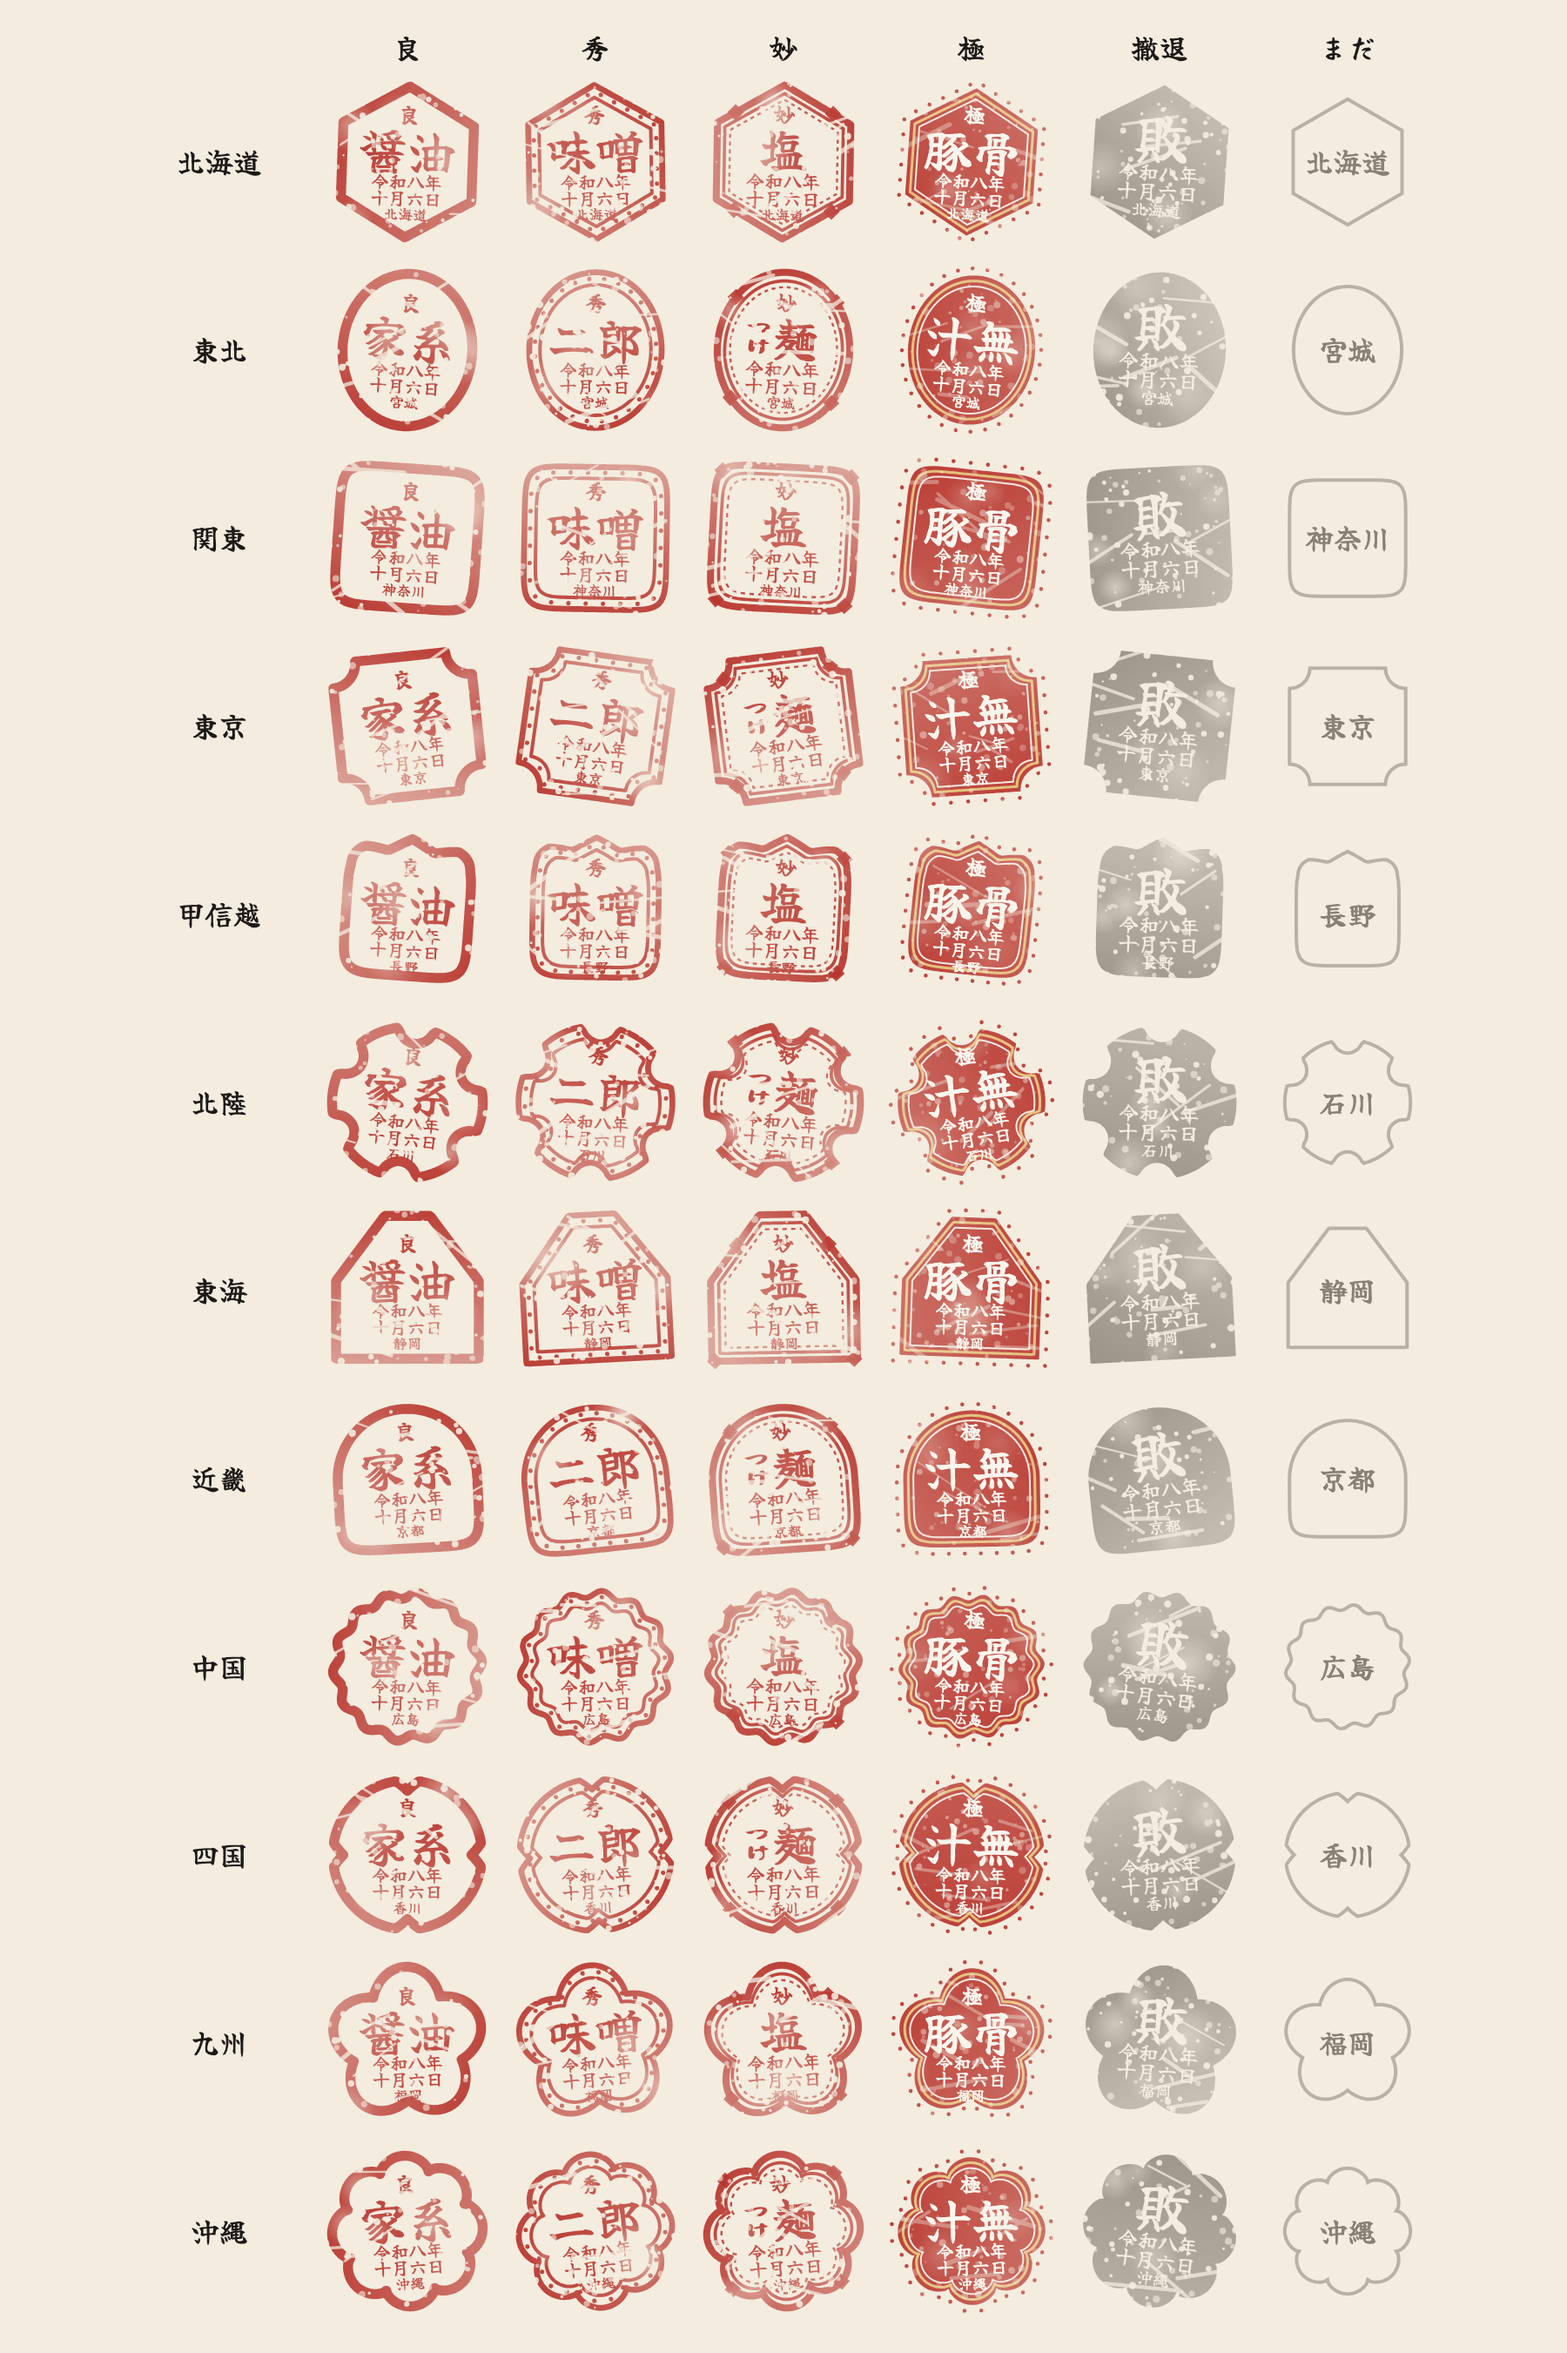
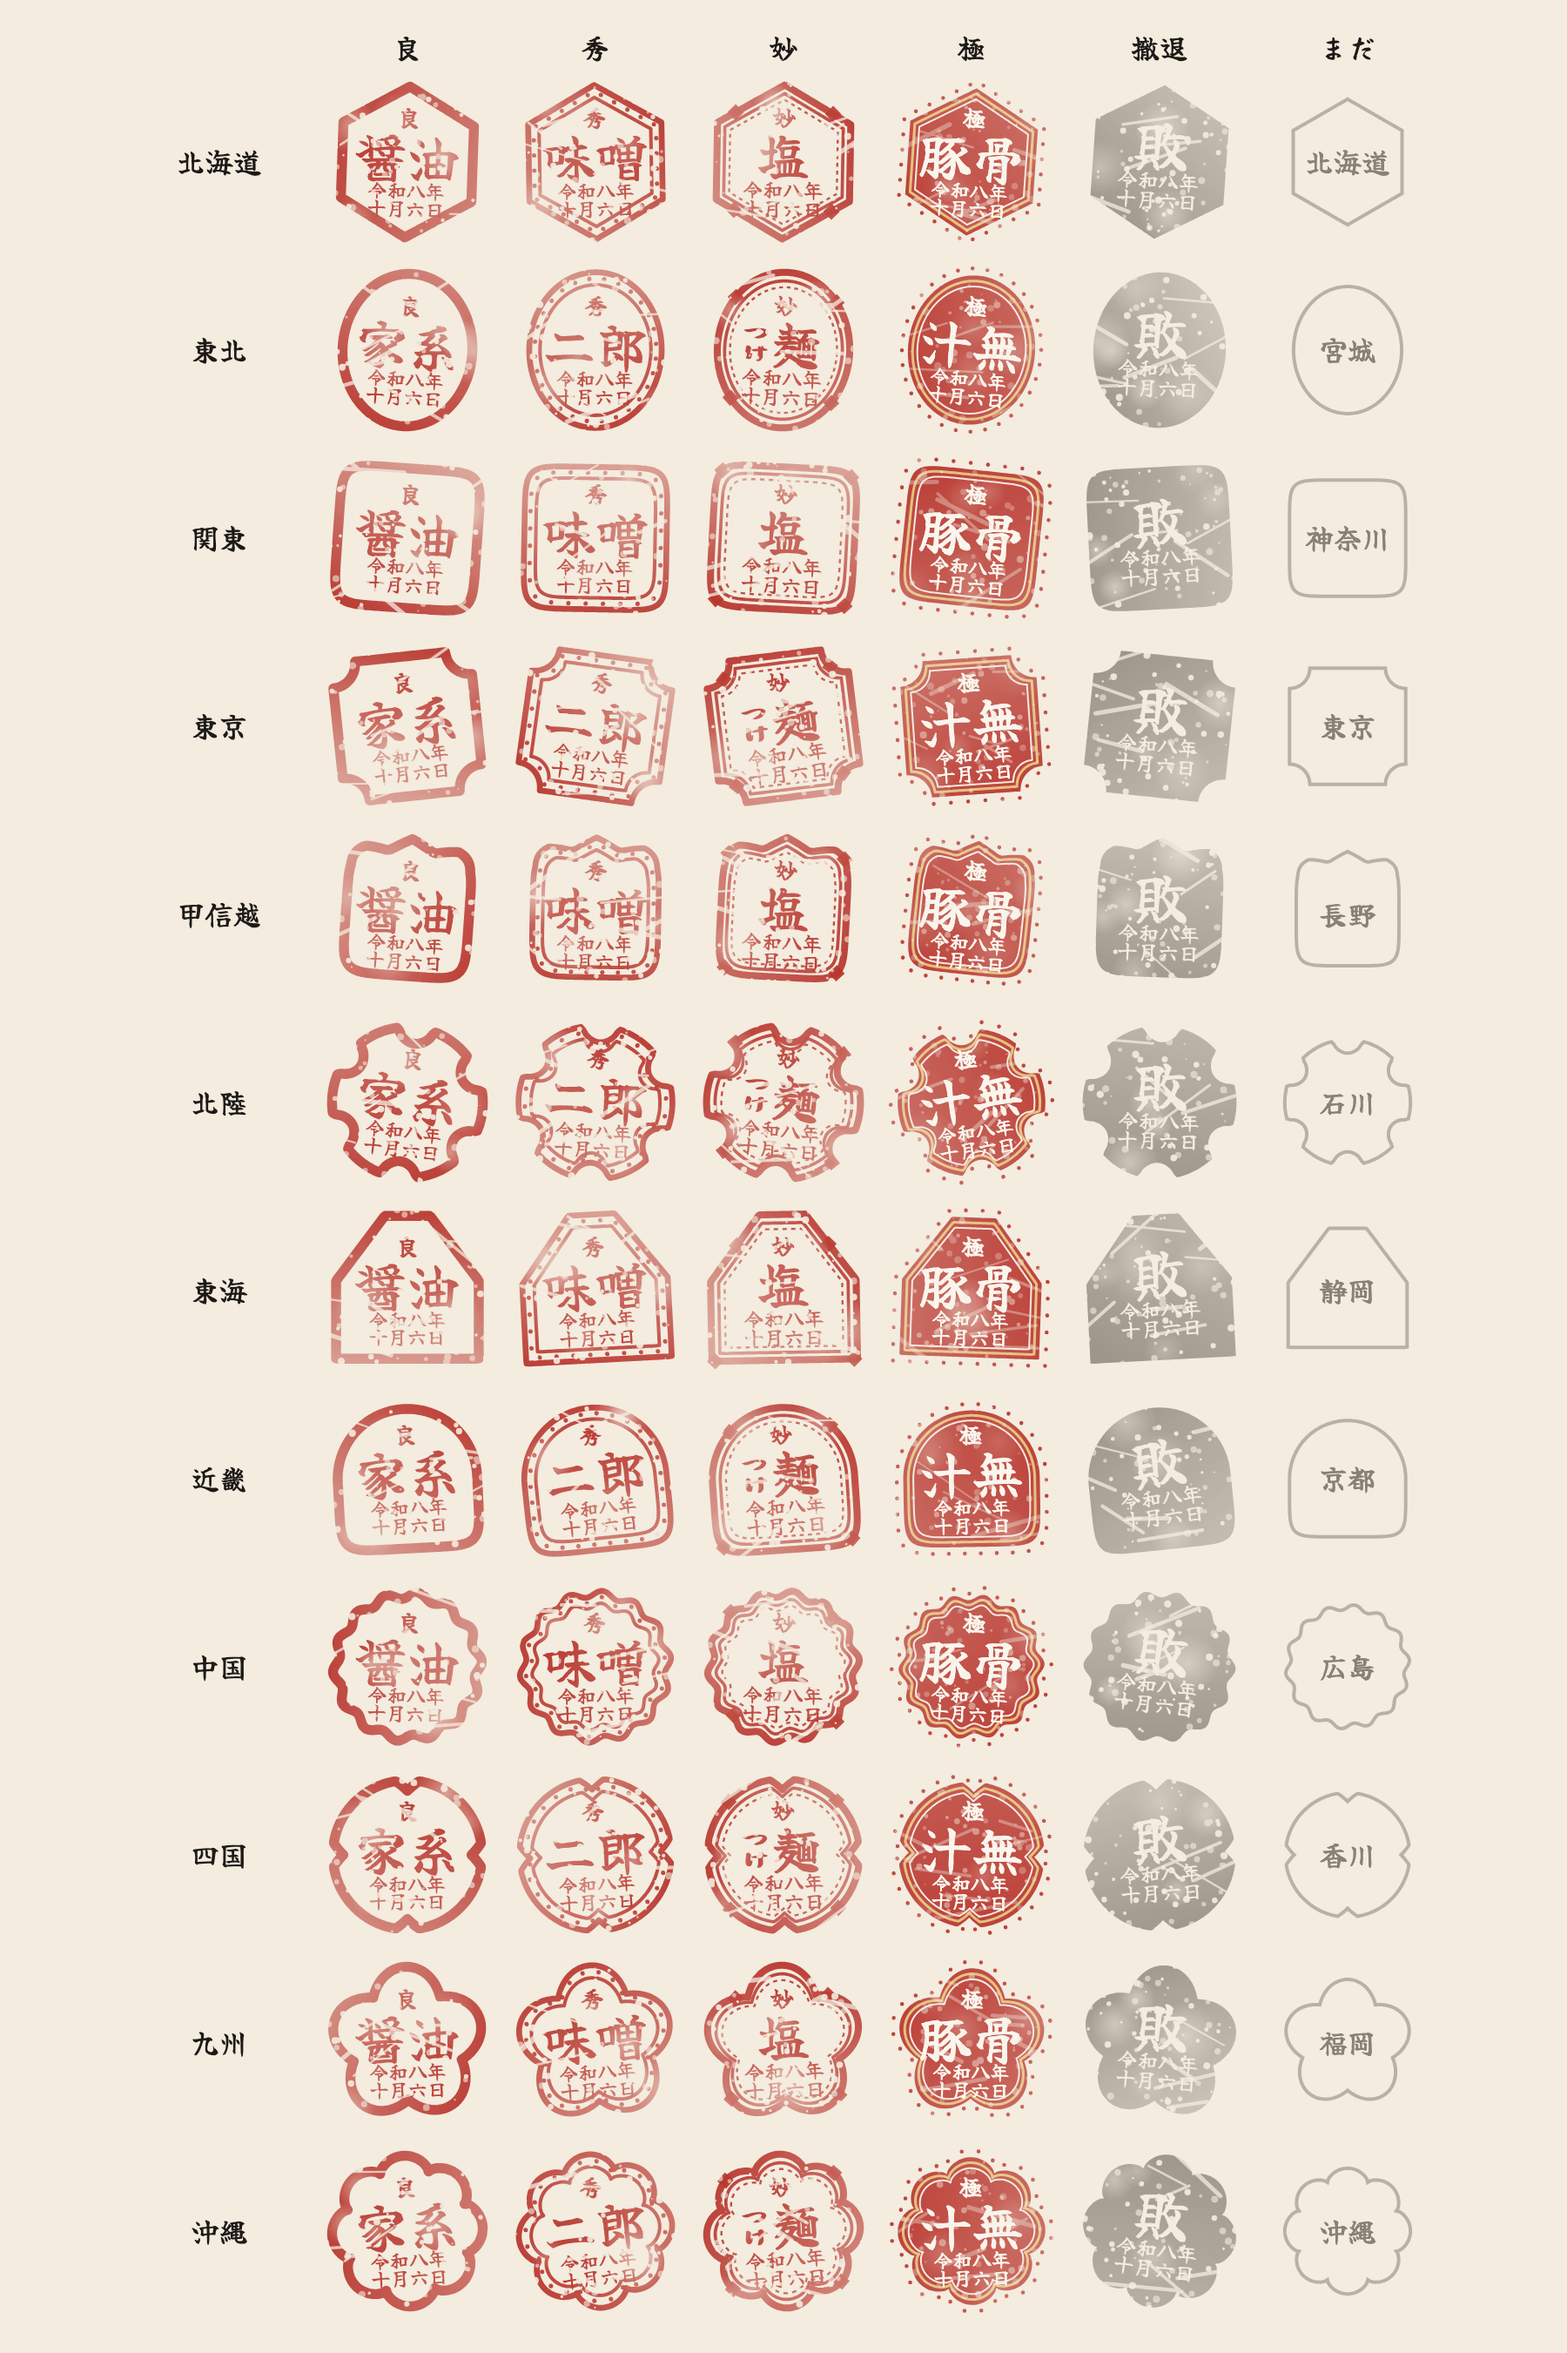
1杯の印の下の小さな都道府県名をやめる

diff --git a/test/features/prefecture/regions_test.dart b/test/features/prefecture/regions_test.dart
@@ -104,7 +104,7 @@ void main() {
     expect(stamps['大阪府']!.bowls, hasLength(1));
   });
 
-  testWidgets('都道府県のわかる1杯の印には、短い都道府県名を入れる', (tester) async {
+  testWidgets('1杯の印には都道府県名を書かず（形で表す）、読み上げにだけ入れる', (tester) async {
     await tester.pumpWidget(
       localizedApp(
         home: InkanStamp(
@@ -113,7 +113,7 @@ void main() {
       ),
     );
 
-    expect(find.text('東京'), findsOneWidget);
+    expect(find.text('東京'), findsNothing);
     expect(find.bySemanticsLabel(RegExp(r'東京都$')), findsOneWidget);
   });
 

diff --git a/lib/features/inkan/inkan_stamp.dart b/lib/features/inkan/inkan_stamp.dart
@@ -171,15 +171,6 @@ class InkanStamp extends StatelessWidget {
           size * (shape == InkanShape.square ? 0.6 : 0.5),
           Text(date, style: small, maxLines: 2, textAlign: TextAlign.center),
         ),
-        if (prefecture != null && frame != null)
-          _fit(
-            size * 0.4,
-            Text(
-              shortPrefectureName(prefecture),
-              maxLines: 1,
-              style: small.copyWith(fontSize: size * 0.1),
-            ),
-          ),
       ],
     );
 

diff --git a/docs/seals/README.md b/docs/seals/README.md
@@ -25,4 +25,4 @@
 | 九州 | 椿（五枚の丸い花びら） | 福岡県・佐賀県・長崎県・熊本県・大分県・宮崎県・鹿児島県 | 福岡県 |
 | 沖縄 | 南国の花（デイゴ。八枚の花びら） | 沖縄県 | 沖縄県 |
 
-<!-- 描き方の指紋: 57db1600 -->
+<!-- 描き方の指紋: 8110e8e4 -->
